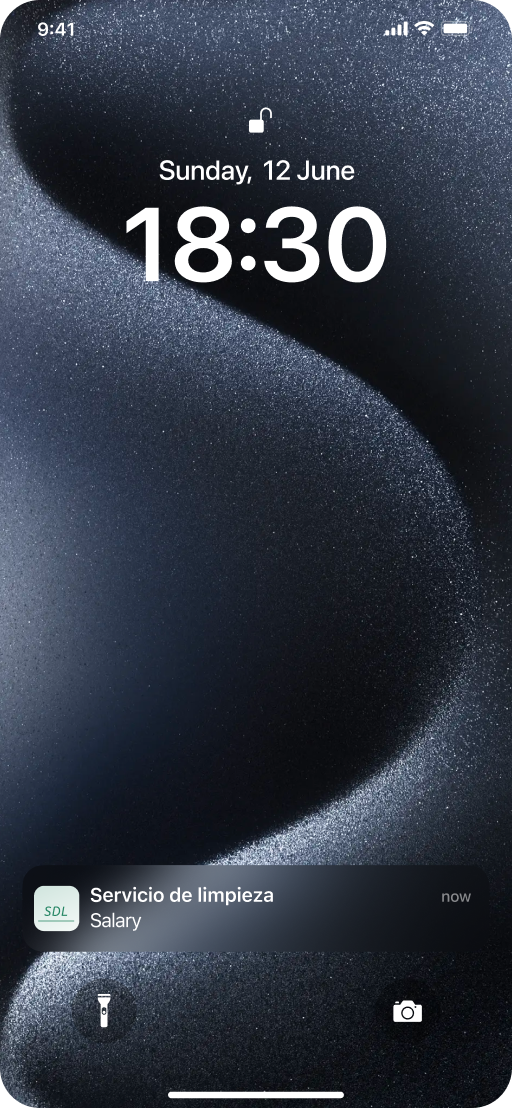
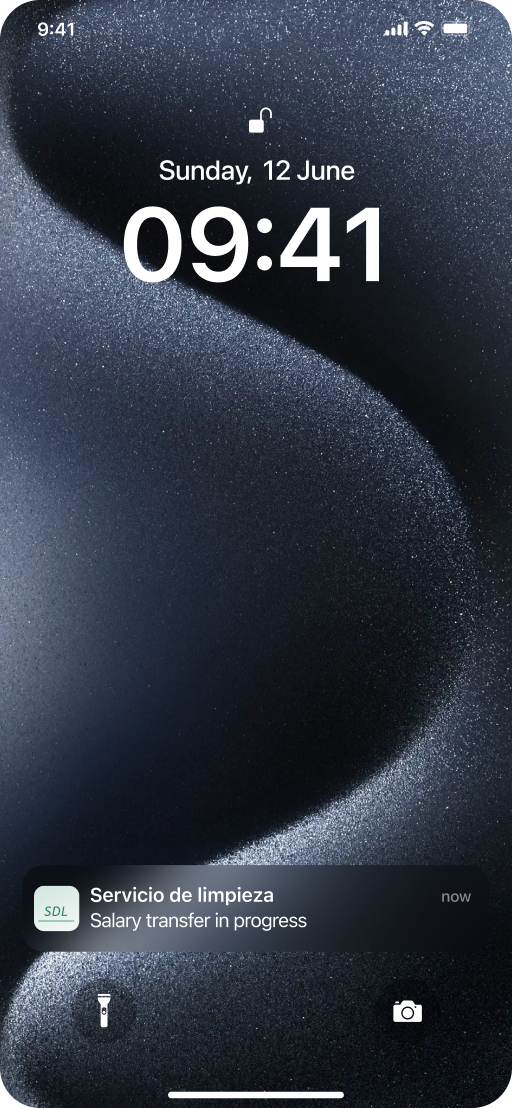
Commit

Changed region(s): [[0.2188, 0.1841, 0.75, 0.2762], [0.4375, 0.8285, 0.5938, 0.8592], [0.2812, 0.8285, 0.4062, 0.8592]]

diff --git a/src/components/Instructions/Instructions.jsx b/src/components/Instructions/Instructions.jsx
@@ -1,9 +1,11 @@
-import React, { useEffect, useState } from 'react';
+import React from 'react';
 import { useTranslation } from 'react-i18next';
-import img0 from '../../images/instructions/img0.png';
 import img1 from '../../images/instructions/img1.png';
+import img1es from '../../images/instructions/img1_es.png';
 import img2 from '../../images/instructions/img2.png';
+import img2es from '../../images/instructions/img2_es.png';
 import img3 from '../../images/instructions/img3.png';
+import img3es from '../../images/instructions/img3_es.png';
 import img4 from '../../images/instructions/img4.png';
 import img4es from '../../images/instructions/img4_es.png';
 import img5 from '../../images/instructions/img5.png';
@@ -46,23 +48,6 @@ import img23 from '../../images/instructions/img23.png';
 import './Instructions.scss';
 
 const Instructions = () => {
-  const [windowWidth, setWindowWidth] = useState();
-
-  useEffect(() => {
-    const handleResize = () => {
-      const width = window.innerWidth;
-      setWindowWidth(width);
-    };
-
-    handleResize();
-
-    window.addEventListener('resize', handleResize);
-
-    return () => {
-      window.removeEventListener('resize', handleResize);
-    };
-  }, []);
-
   const { t, i18n } = useTranslation();
   const { language } = i18n;
 
@@ -119,19 +104,27 @@ const Instructions = () => {
           <p className="section__text">{t('systemText')}</p>
           <div className="system__images">
             <div className="system__img-wrap">
-              {windowWidth <= 1440 ? (
-                <img className="system__img_1" src={img0} alt="Mobile+Web Customer" />
-              ) : (
+              {language === 'en' ? (
                 <img className="system__img_1" src={img1} alt="Mobile+Web Customer" />
+              ) : (
+                <img className="system__img_1" src={img1es} alt="Mobile+Web Customer" />
               )}
               <span className="system__img-label">{t('mobileWeb')}</span>
             </div>
             <div className="system__img-wrap">
-              <img className="system__img_2" src={img2} alt="Mobile Cleaner " />
+              {language === 'en' ? (
+                <img className="system__img_2" src={img2} alt="Mobile Cleaner " />
+              ) : (
+                <img className="system__img_2" src={img2es} alt="Mobile Cleaner " />
+              )}
               <span className="system__img-label">{t('mobileCleaner')}</span>
             </div>
             <div className="system__img-wrap">
-              <img className="system__img_3" src={img3} alt="Admin panel" />
+              {language === 'en' ? (
+                <img className="system__img_3" src={img3} alt="Admin panel" />
+              ) : (
+                <img className="system__img_3" src={img3es} alt="Admin panel" />
+              )}
               <span className="system__img-label">{t('admin')}</span>
             </div>
           </div>

diff --git a/src/components/Instructions/Instructions.scss b/src/components/Instructions/Instructions.scss
@@ -209,12 +209,8 @@
       width: 358px;
       margin-bottom: 20px;
 
-      @media screen and (max-width: 1440px) {
-        width: 351px;
-      }
-
       @media screen and (max-width: 744px) {
-        width: 79.4vw;
+        width: 88vw;
         max-width: 400px;
         margin-bottom: 10px;
       }
